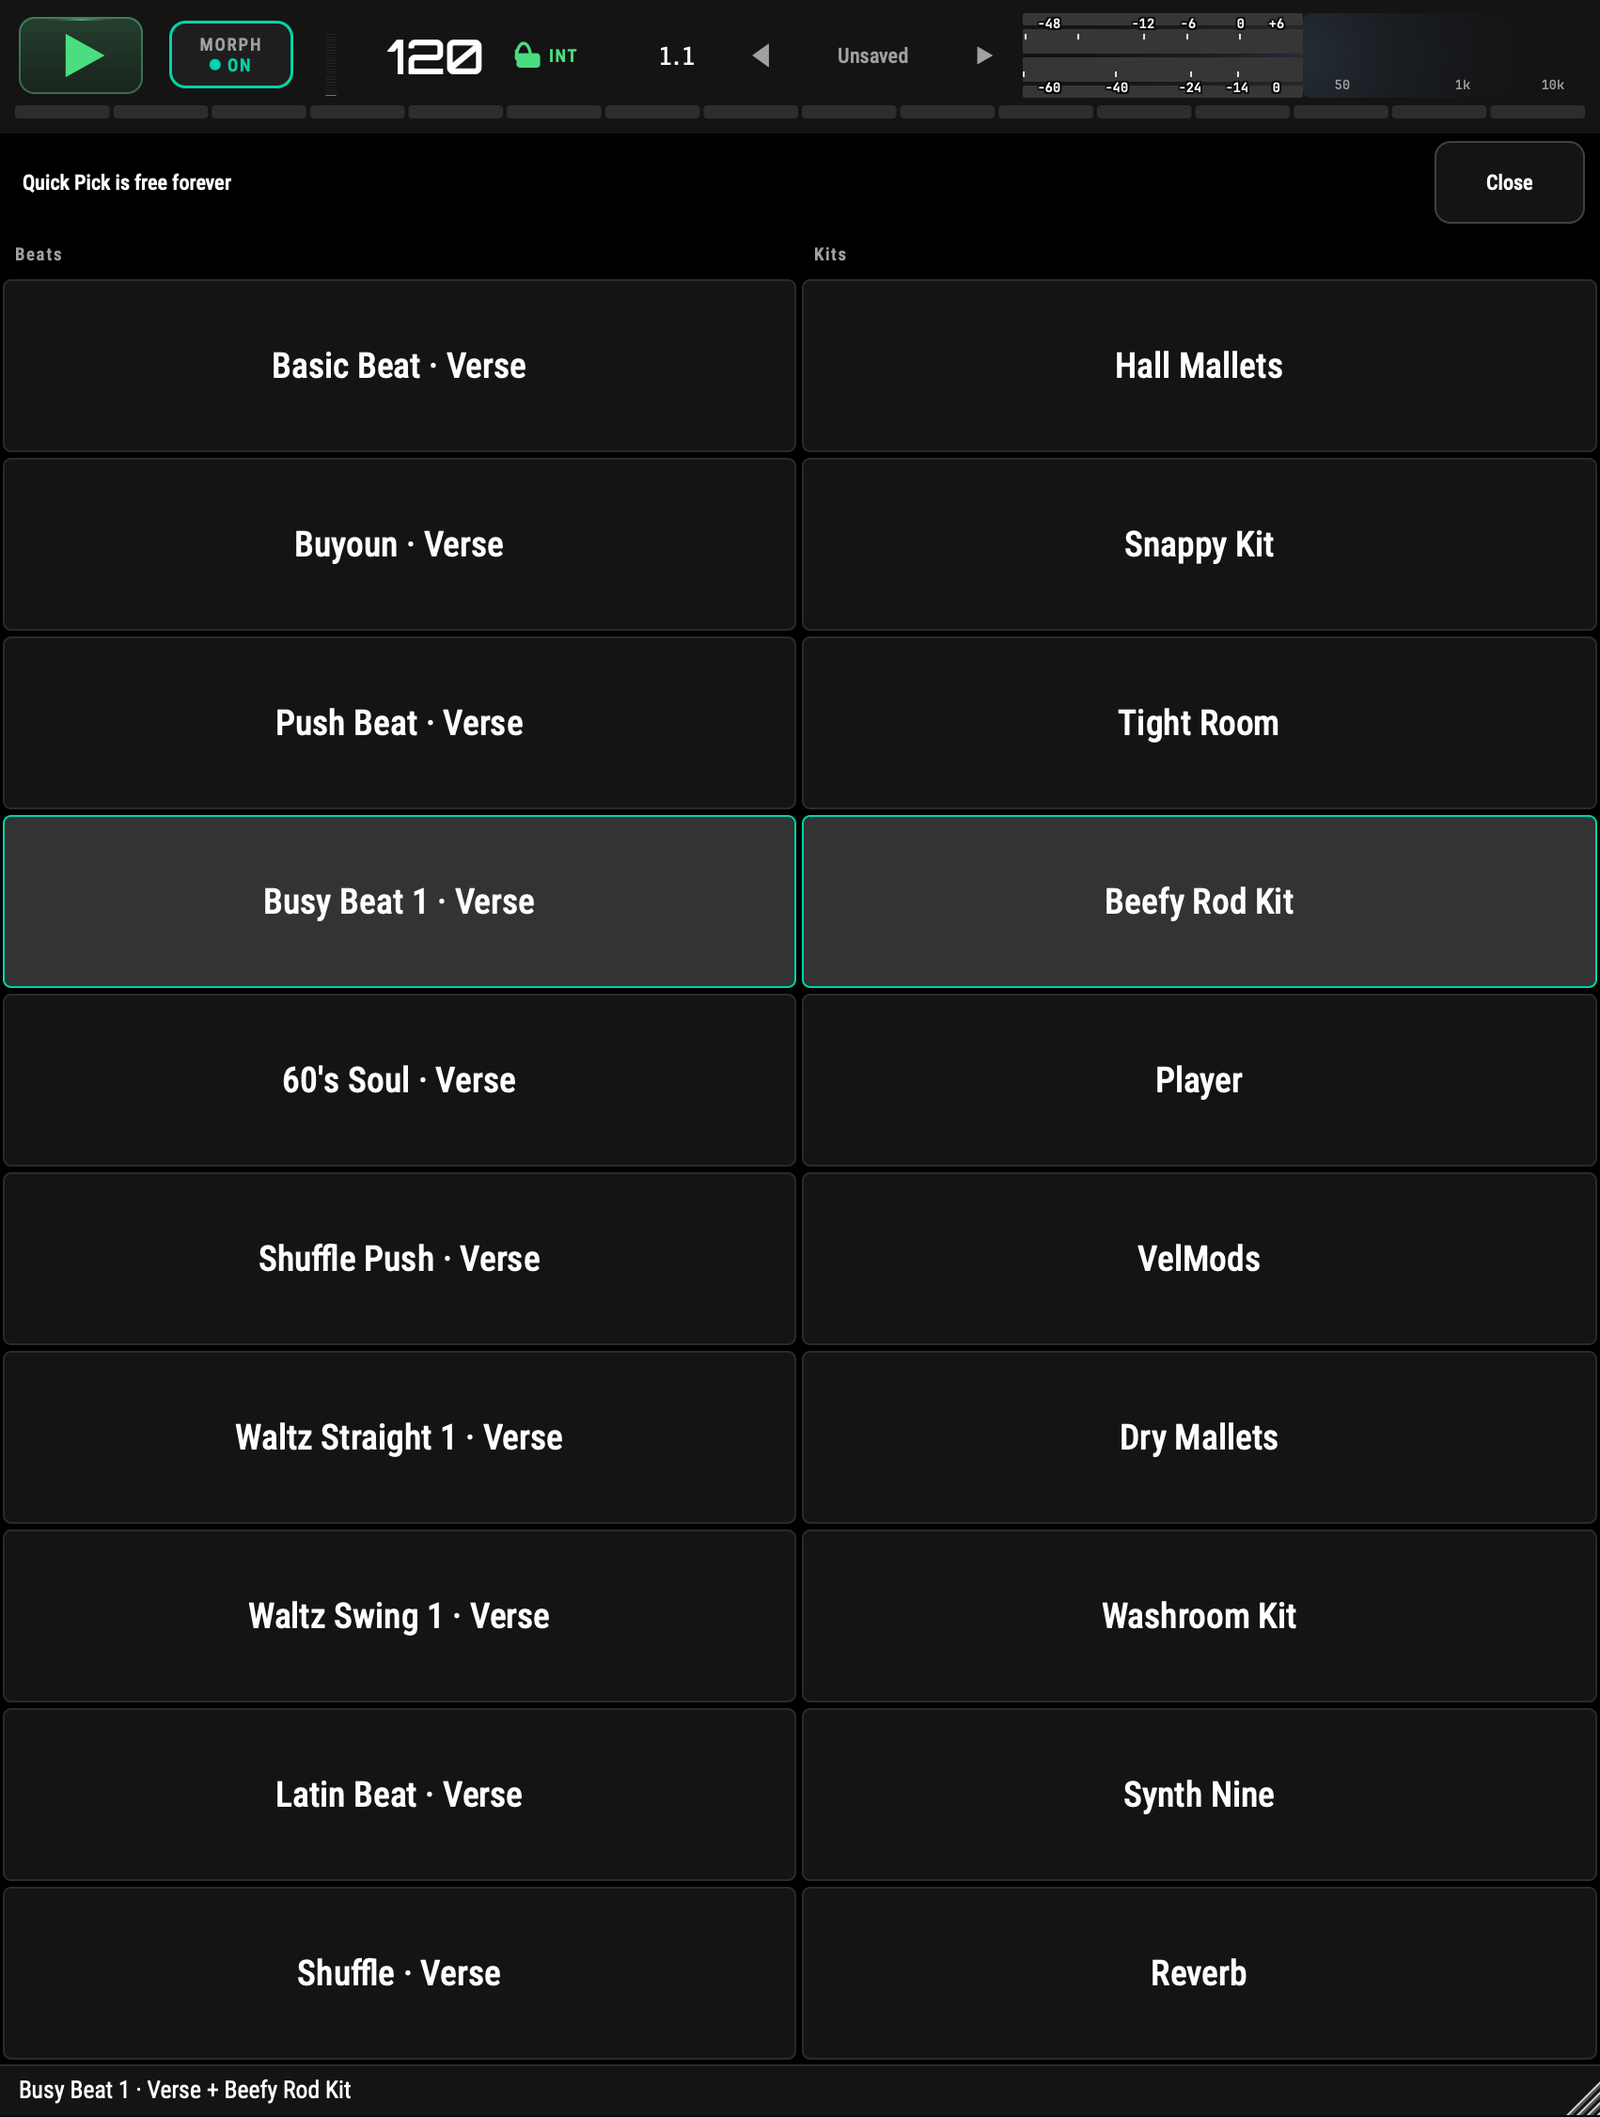
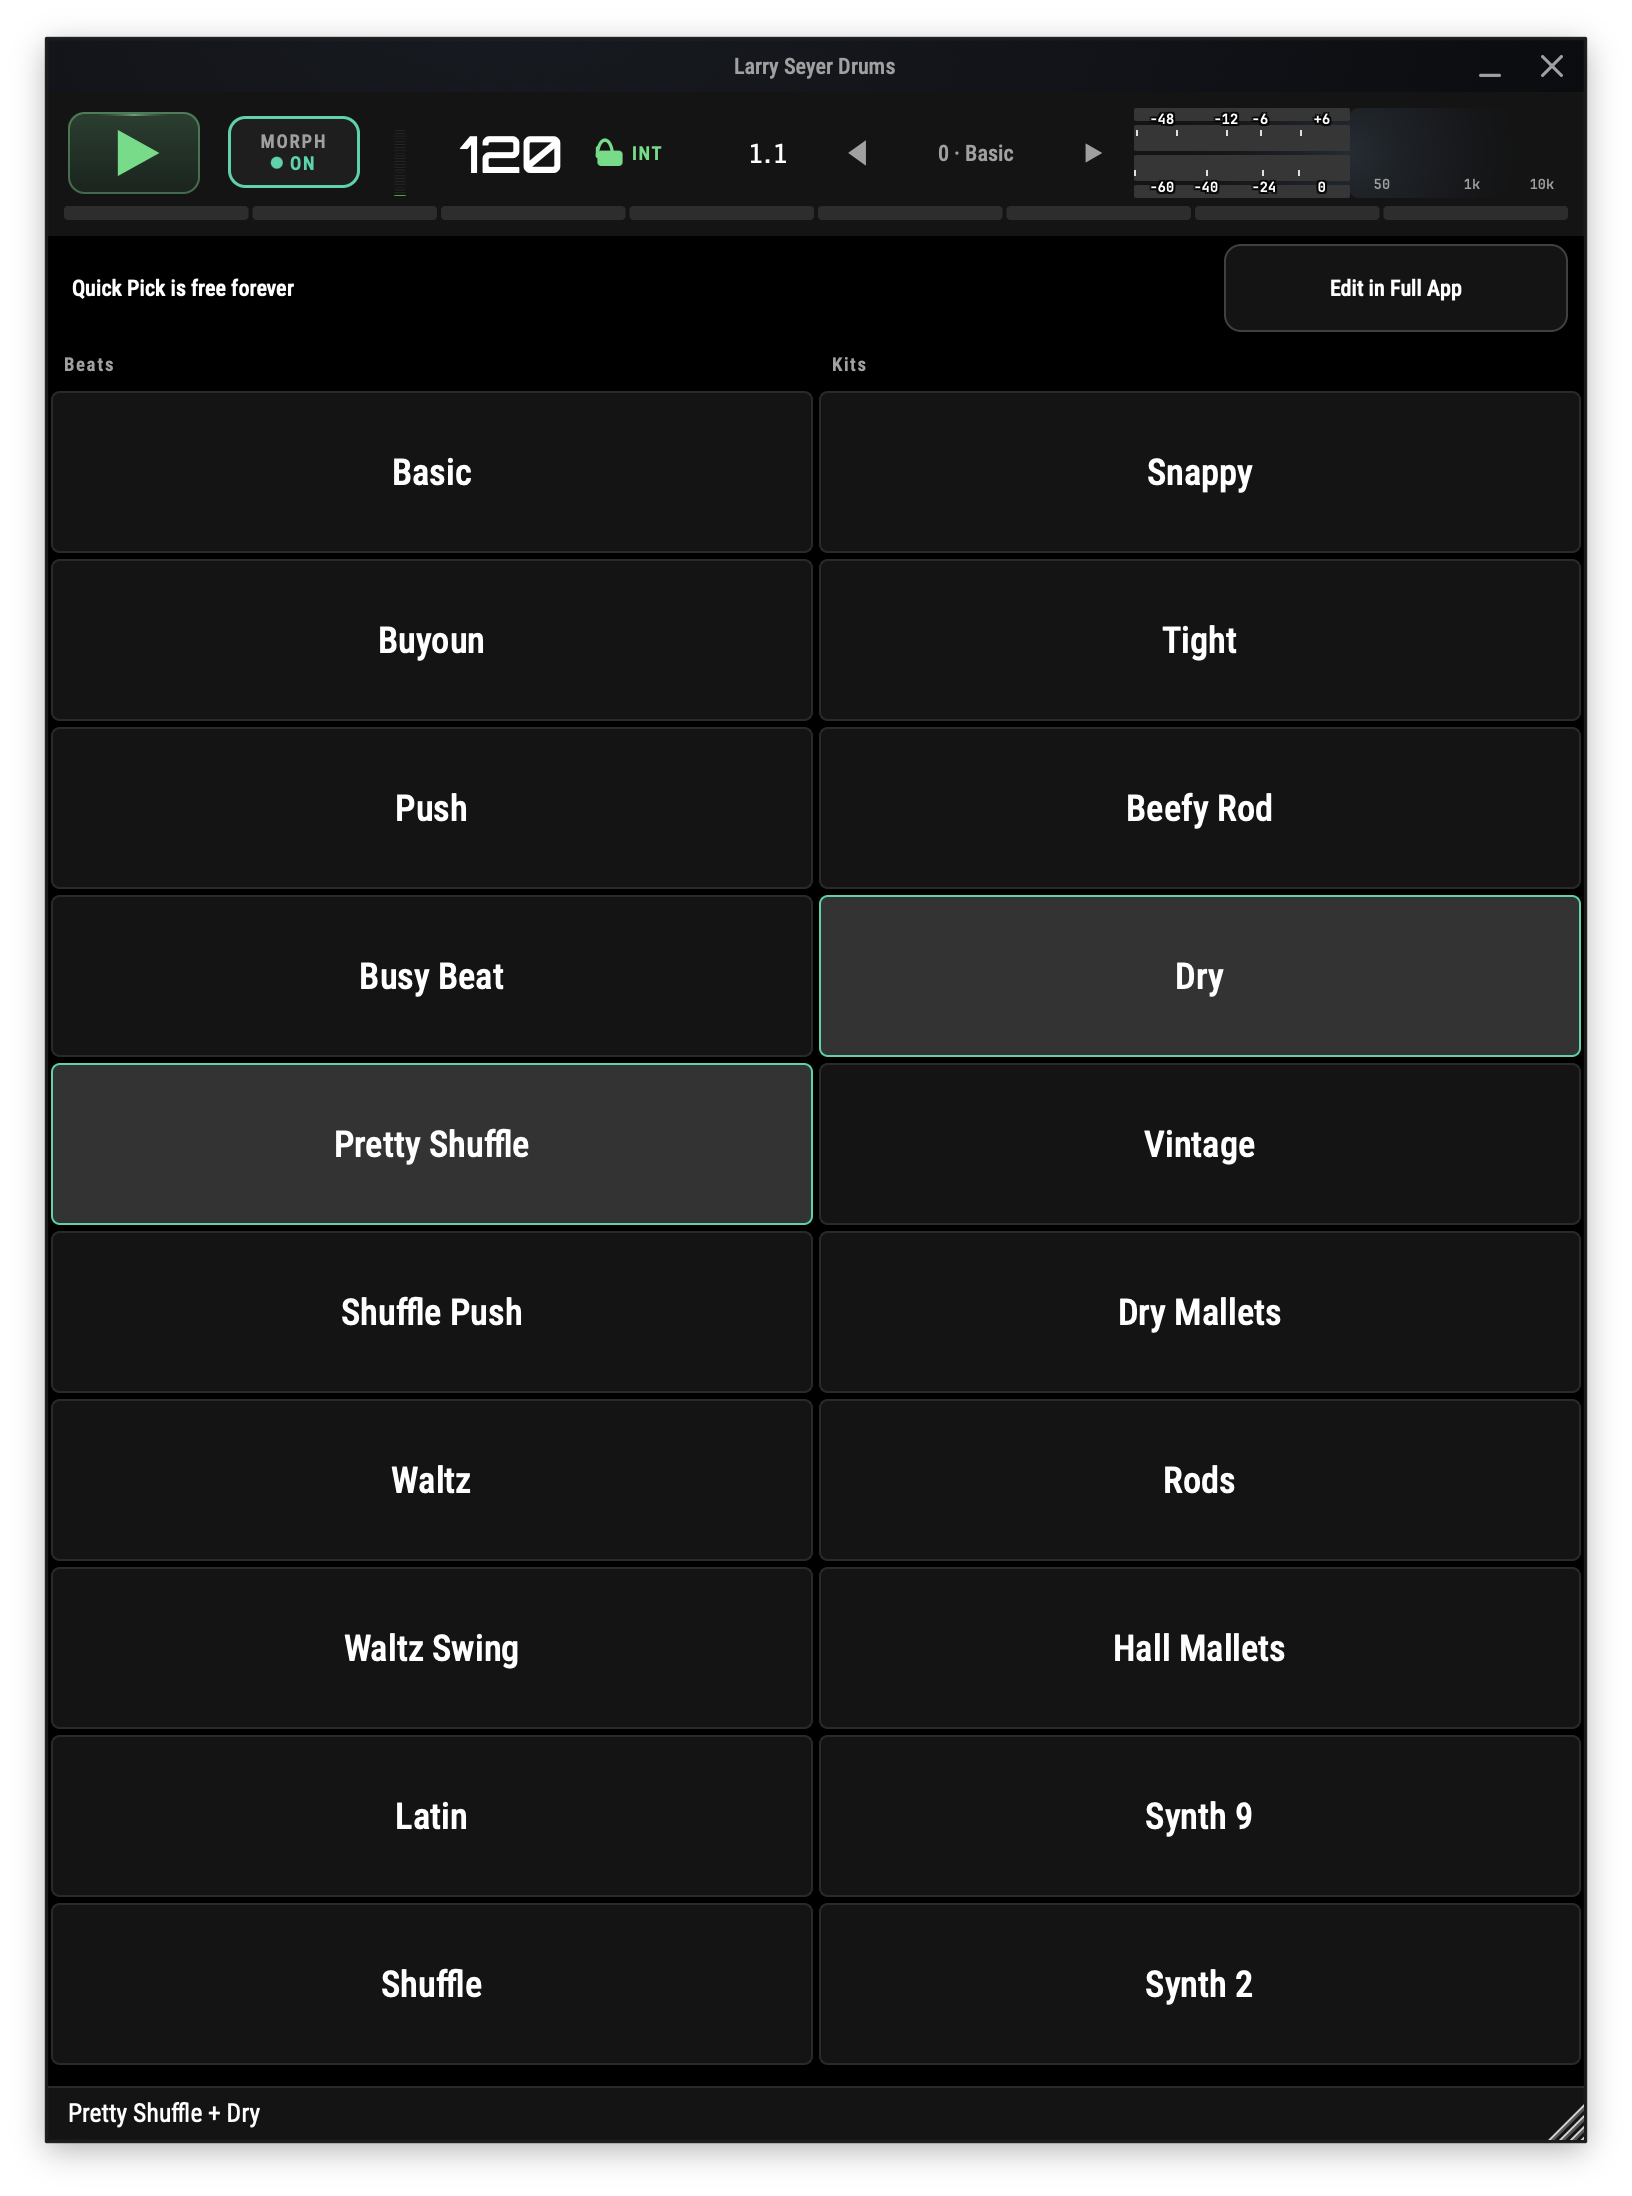
Larry Seyer Drums manual: replace the Quick Pick screenshot.
Use Larry's new capture of Quick Pick with Pretty Shuffle and Dry
selected and the Edit in Full App button, and update the alt text
and caption to match.

diff --git a/pages/projects/larry-seyer-drums-manual/quick-pick-and-first-groove.html b/pages/projects/larry-seyer-drums-manual/quick-pick-and-first-groove.html
@@ -116,7 +116,7 @@
 <p>To save your own beat or kit into a slot, right-click or press and hold. If a Drums pattern is playing, you&rsquo;ll see “Save” plus that name plus “here”. If you&rsquo;ve already replaced a factory slot, you can also “Restore factory beat” or “Restore factory preset”. Saving over a slot you already saved yourself asks “Replace slot …?” first.</p>
 <p>On iPhone and iPad the layout follows the screen: in portrait, beats are on the left and kits on the right; in landscape, beats are the top row and kits are the bottom row.</p>
 <p>A Mac or desktop plug-in window opens on the full app pages, not on this screen. The compact AUv3 window on iPhone and iPad <em>is</em> a Quick Pick view; see <a href="using-the-plugin.html">Using the Plug-in in a Host</a>.</p>
-<p><figure><img src="images/s02-quick-pick.png" alt="Quick Pick on a Mac in portrait, with Busy Beat One and a player preset selected" title="Quick Pick with Busy Beat 1 · Verse and Beefy Rod Kit selected"><figcaption>Quick Pick with Busy Beat 1 · Verse and Beefy Rod Kit selected</figcaption></figure></p>
+<p><figure><img src="images/s02-quick-pick.png" alt="Quick Pick with Pretty Shuffle and Dry selected, and the Edit in Full App button" title="Quick Pick with Pretty Shuffle and Dry selected, plus Edit in Full App"><figcaption>Quick Pick with Pretty Shuffle and Dry selected, plus Edit in Full App</figcaption></figure></p>
 <blockquote><p><strong>Screenshot needed:</strong> Quick Pick on an iPhone in portrait, same selection, so the side-by-side layout is clear.</p></blockquote>
 <h2 id="build-your-own-song"><a class="manual-heading-anchor" href="#build-your-own-song">Build your own song</a><button type="button" class="manual-copy-link" data-anchor="build-your-own-song" aria-label="Copy link to this section">#</button></h2>
 <p>Quick Pick is only a starting point. You are not limited to those ten beats, and you don&rsquo;t have to keep the song <strong>Edit in Full App</strong> made for you. You can build a new arrangement &mdash; or start from a blank timeline &mdash; and drag pills onto the song.</p>

diff --git a/pages/projects/larry-seyer-drums-manual/getting-started.html b/pages/projects/larry-seyer-drums-manual/getting-started.html
@@ -110,7 +110,7 @@
 <p>Next time you open the standalone app, Quick Pick appears again as long as <strong>Show Quick Pick at startup</strong> is on &mdash; that&rsquo;s the default. Testers can turn it off. Open the three-dot menu, choose <strong>App Settings</strong>, and in the <strong>Quick Pick</strong> section switch off <strong>Show Quick Pick at startup</strong>. After that, the app opens on the last song instead of Quick Pick. Quick Pick stays in the three-dot menu, and you can turn the switch back on at any time.</p>
 <p>You can also reopen Quick Pick from the three-dot menu, or with the Q key if you have a keyboard and you&rsquo;re using the default Larry Seyer Drums key scheme.</p>
 <p>A plug-in window in a Mac or desktop host opens on the full app pages, not on Quick Pick. The compact AUv3 window on iPhone and iPad <em>is</em> a Quick Pick view, with <strong>Open full Larry Seyer Drums</strong> to attach the app &mdash; that&rsquo;s covered in <a href="using-the-plugin.html">Using the Plug-in in a Host</a>.</p>
-<p><figure><img src="images/s02-quick-pick.png" alt="Quick Pick on a Mac in portrait, with Busy Beat One and a player preset selected" title="Quick Pick with Busy Beat 1 · Verse and Beefy Rod Kit selected"><figcaption>Quick Pick with Busy Beat 1 · Verse and Beefy Rod Kit selected</figcaption></figure></p>
+<p><figure><img src="images/s02-quick-pick.png" alt="Quick Pick with Pretty Shuffle and Dry selected, and the Edit in Full App button" title="Quick Pick with Pretty Shuffle and Dry selected, plus Edit in Full App"><figcaption>Quick Pick with Pretty Shuffle and Dry selected, plus Edit in Full App</figcaption></figure></p>
 <h2 id="the-top-bar"><a class="manual-heading-anchor" href="#the-top-bar">The top bar</a><button type="button" class="manual-copy-link" data-anchor="the-top-bar" aria-label="Copy link to this section">#</button></h2>
 <p>The top bar is the same idea on every device, with a slightly tighter layout on an upright iPhone.</p>
 <p>Here&rsquo;s what you&rsquo;ll use all the time:</p>

diff --git a/tools/manual/content/03-quick-pick-and-first-groove.md b/tools/manual/content/03-quick-pick-and-first-groove.md
@@ -55,7 +55,7 @@ On iPhone and iPad the layout follows the screen: in portrait, beats are on the 
 
 A Mac or desktop plug-in window opens on the full app pages, not on this screen. The compact AUv3 window on iPhone and iPad *is* a Quick Pick view; see [Using the Plug-in in a Host](12-using-the-plugin.md).
 
-![Quick Pick on a Mac in portrait, with Busy Beat One and a player preset selected](images/s02-quick-pick.png "Quick Pick with Busy Beat 1 · Verse and Beefy Rod Kit selected")
+![Quick Pick with Pretty Shuffle and Dry selected, and the Edit in Full App button](images/s02-quick-pick.png "Quick Pick with Pretty Shuffle and Dry selected, plus Edit in Full App")
 
 > **Screenshot needed:** Quick Pick on an iPhone in portrait, same selection, so the side-by-side layout is clear.
 

diff --git a/tools/manual/content/02-getting-started.md b/tools/manual/content/02-getting-started.md
@@ -19,7 +19,7 @@ You can also reopen Quick Pick from the three-dot menu, or with the Q key if you
 
 A plug-in window in a Mac or desktop host opens on the full app pages, not on Quick Pick. The compact AUv3 window on iPhone and iPad *is* a Quick Pick view, with **Open full Larry Seyer Drums** to attach the app -- that's covered in [Using the Plug-in in a Host](12-using-the-plugin.md).
 
-![Quick Pick on a Mac in portrait, with Busy Beat One and a player preset selected](images/s02-quick-pick.png "Quick Pick with Busy Beat 1 · Verse and Beefy Rod Kit selected")
+![Quick Pick with Pretty Shuffle and Dry selected, and the Edit in Full App button](images/s02-quick-pick.png "Quick Pick with Pretty Shuffle and Dry selected, plus Edit in Full App")
 
 
 ## The top bar
